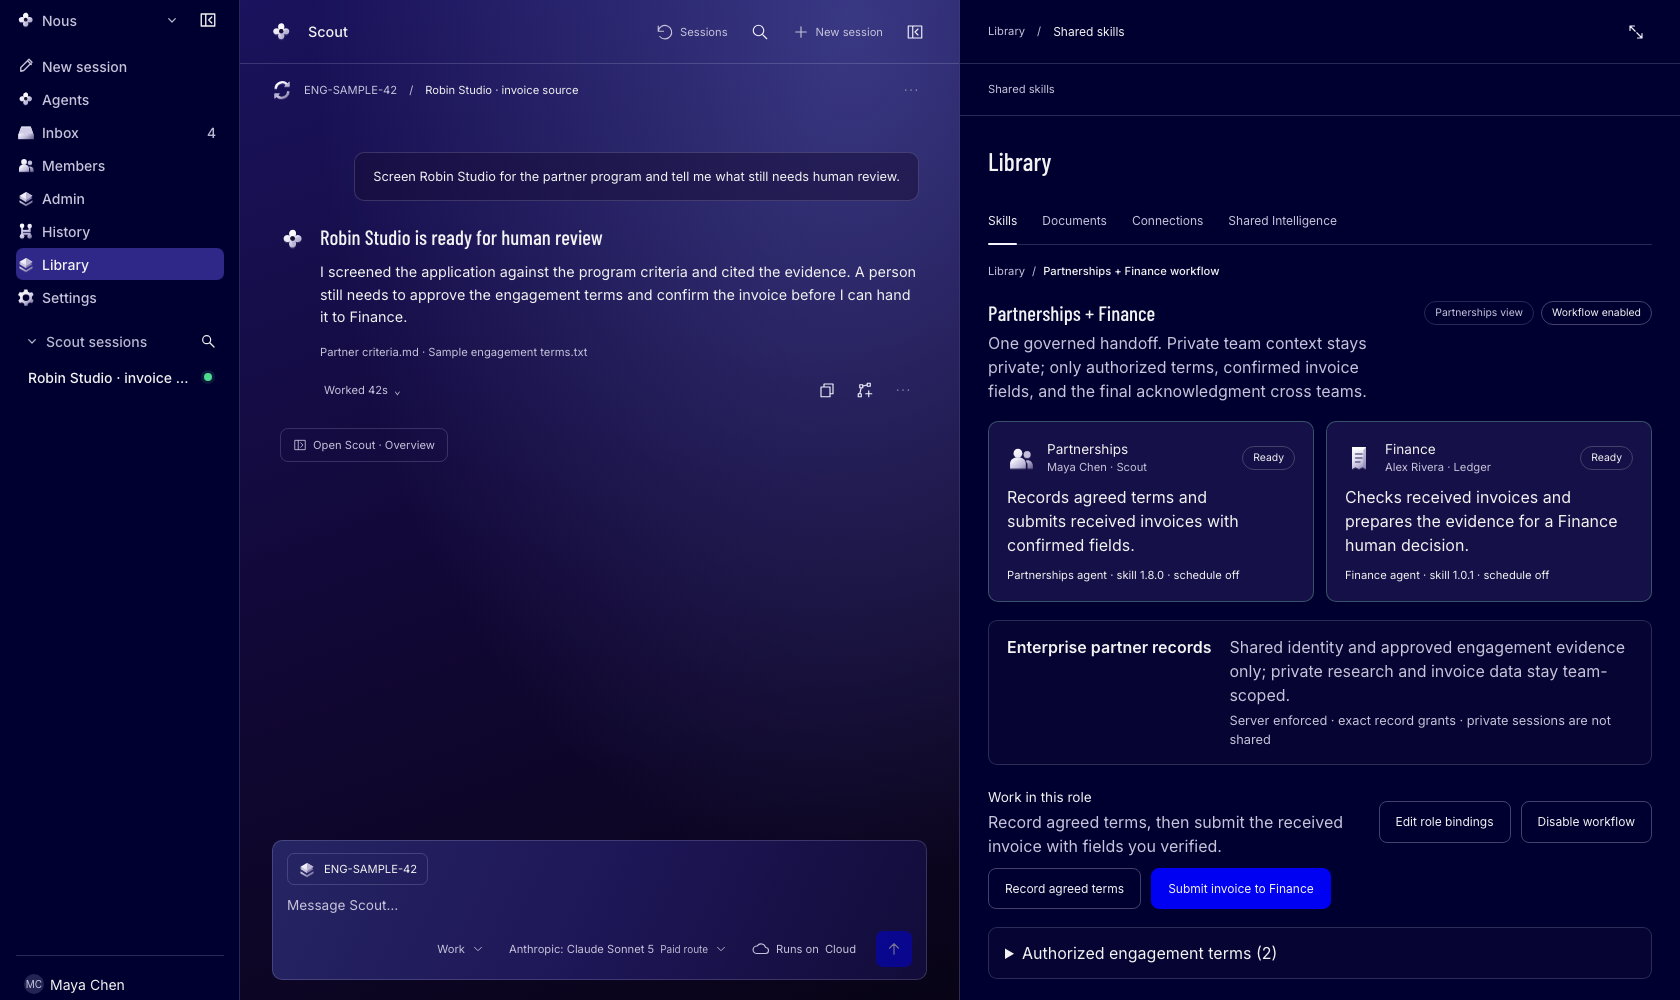
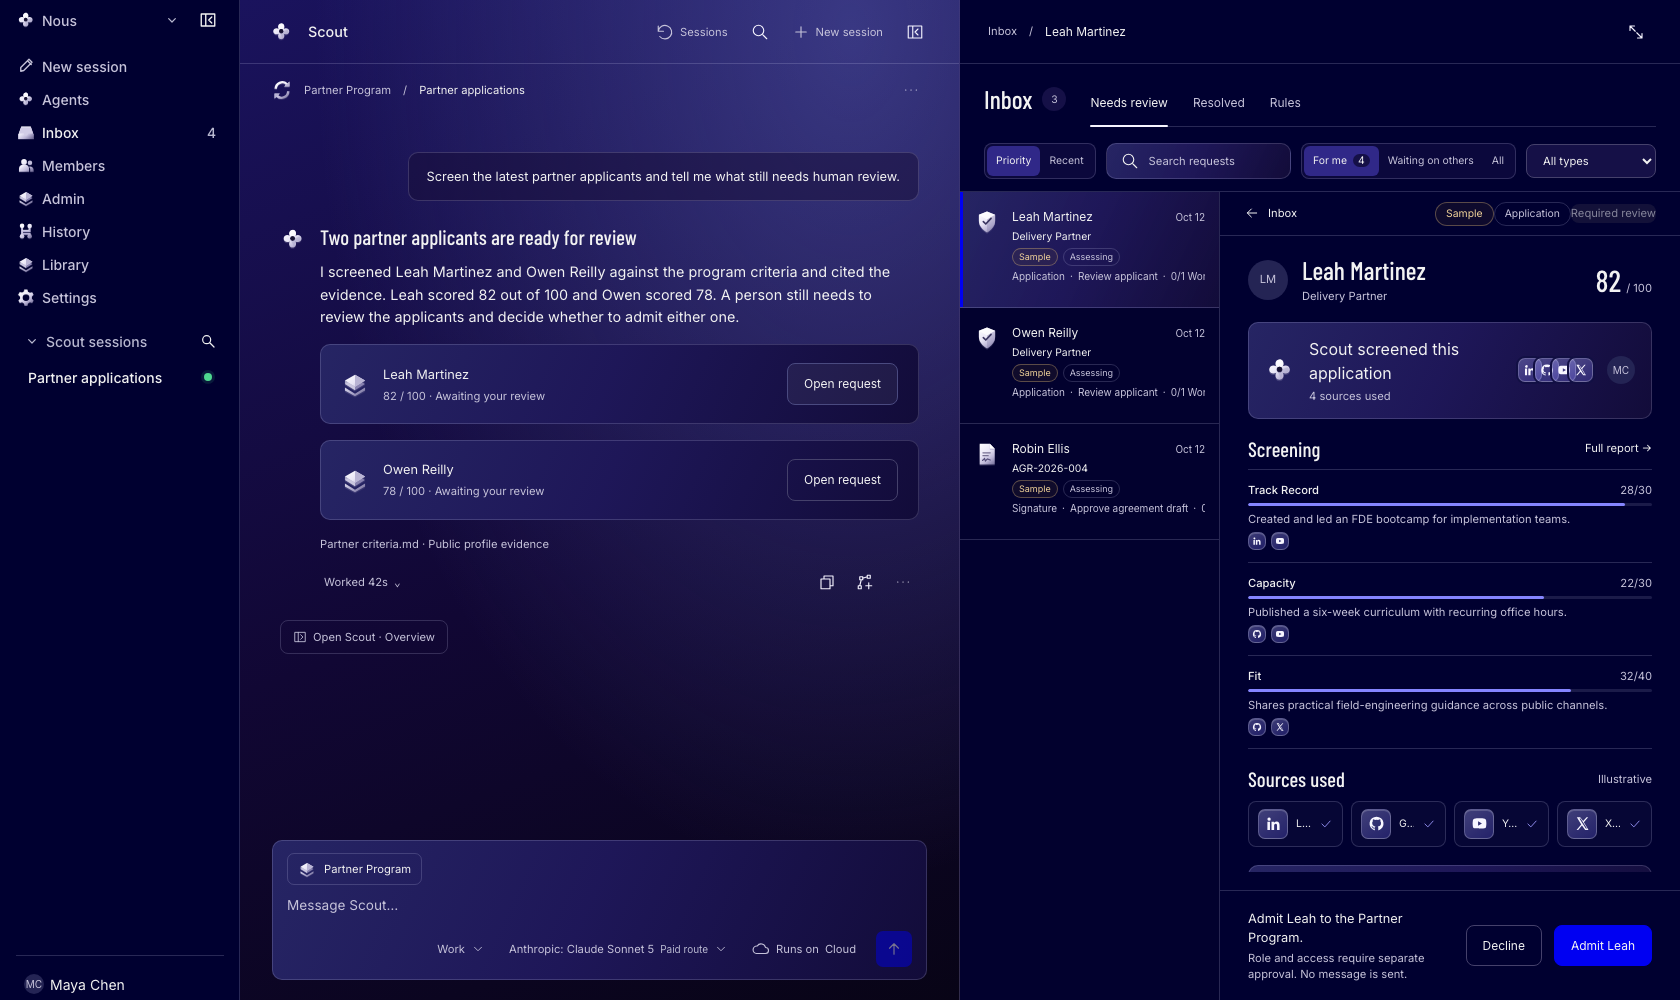
Show Inbox workflow in README screenshots

diff --git a/apps/client/e2e/readme-screenshots.spec.ts b/apps/client/e2e/readme-screenshots.spec.ts
@@ -7,40 +7,39 @@ test.use({ viewport: { width: 1680, height: 1000 } });
 const app = (page: import('@playwright/test').Page) => page.getByRole('region', { name: 'Application' });
 const asset = (name: string) => fileURLToPath(new URL(`../../../docs/assets/${name}`, import.meta.url));
 
-test('capture the two-role Partnerships and Finance workflow', async ({ page }) => {
+test('capture the two-role Partnerships and Finance workflow in the Inbox', async ({ page }) => {
   await page.emulateMedia({ reducedMotion: 'reduce' });
 
   await page.goto('/?partnerWorkflow=1&workflowRole=partnerships&seat=admin');
-  await page.getByRole('button', { name: 'Library', exact: true }).click();
+  await page.getByRole('button', { name: /^Inbox/ }).click();
   await expect(page.getByText('Scout sessions', { exact: true })).toBeVisible();
-  await expect(page.getByRole('button', { name: 'Robin Studio · invoice source' })).toBeVisible();
-  await expect(page.getByText('Robin Studio is ready for human review', { exact: true })).toBeVisible();
-  await expect(app(page).getByText('Maya Chen · Scout', { exact: true })).toBeVisible();
-  await expect(app(page).getByText('Alex Rivera · Ledger', { exact: true })).toBeVisible();
+  await expect(page.getByRole('button', { name: 'Partner applications' })).toBeVisible();
+  await expect(page.getByText('Two partner applicants are ready for review', { exact: true })).toBeVisible();
+  await page.locator('.chat-card').filter({ hasText: 'Leah Martinez' }).getByRole('button', { name: 'Open request' }).click();
+  await expect(app(page).getByRole('heading', { name: 'Inbox', exact: true })).toBeVisible();
+  await expect(app(page).getByText('Leah Martinez', { exact: true }).first()).toBeVisible();
+  await expect(app(page).getByLabel('82 out of 100')).toBeVisible();
+  await expect(app(page).getByRole('heading', { name: 'Library', exact: true })).toHaveCount(0);
   await page.screenshot({ path: asset('readme-partnerships.png'), animations: 'disabled' });
 
   await page.goto('/?partnerWorkflow=1&workflowRole=finance&seat=member');
-  await page.getByRole('button', { name: 'Library', exact: true }).click();
   await expect(page.getByText('Ledger sessions', { exact: true })).toBeVisible();
   await expect(page.getByRole('button', { name: 'Robin Studio · Finance review' })).toBeVisible();
   await expect(page.getByText('Ready for Alex’s decision', { exact: true })).toBeVisible();
-  const handoff = app(page).locator('.partner-handoff-card').filter({ hasText: 'INV-SAMPLE-014' });
-  await handoff.getByRole('button', { name: 'View checks and evidence' }).click();
-  await expect(handoff.getByText('Sample engagement terms.txt', { exact: true })).toBeVisible();
-  await page.screenshot({ path: asset('readme-finance-handoff.png'), animations: 'disabled' });
-
-  await handoff.getByRole('button', { name: 'Open Finance decision' }).click();
+  await page.locator('.chat-card').filter({ hasText: 'INV-SAMPLE-014' }).getByRole('button', { name: 'Open request' }).click();
+  await expect(app(page).getByRole('heading', { name: 'Inbox', exact: true })).toBeVisible();
   await expect(app(page).getByRole('heading', { name: 'Your decision' })).toBeVisible();
-  await expect(page.getByText('Ledger sessions', { exact: true })).toBeVisible();
+  await expect(app(page).getByText('Authorized workflow evidence (4 checks)', { exact: true })).toBeVisible();
+  await expect(app(page).getByRole('heading', { name: 'Library', exact: true })).toHaveCount(0);
   await page.screenshot({ path: asset('readme-finance-decision.png'), animations: 'disabled' });
 
   await app(page).getByRole('button', { name: 'Approve invoice draft', exact: true }).click();
   await expect(app(page).getByRole('heading', { name: 'Saved in Library' })).toBeVisible();
-  await page.getByRole('button', { name: 'Library', exact: true }).click();
-  const decided = app(page).locator('.partner-handoff-card').filter({ hasText: 'INV-SAMPLE-014' });
-  await expect(decided.getByText('Finance saved the invoice draft', { exact: true })).toBeVisible();
-  await expect(page.getByText('Ledger sessions', { exact: true })).toBeVisible();
-  await decided.scrollIntoViewIfNeeded();
-  await page.evaluate(() => window.scrollTo(0, 0));
+  await app(page).getByRole('button', { name: 'Back to Inbox' }).click();
+  await app(page).getByRole('tab', { name: 'Resolved', exact: true }).click();
+  await expect(app(page).getByRole('tab', { name: 'Resolved', exact: true })).toHaveAttribute('aria-selected', 'true');
+  const resolvedInvoice = app(page).locator('.inbox-item').filter({ hasText: 'Robin Studio' });
+  await expect(resolvedInvoice.getByText('Invoice draft created · Not sent · No money moved', { exact: true })).toBeVisible();
+  await expect(app(page).getByRole('heading', { name: 'Library', exact: true })).toHaveCount(0);
   await page.screenshot({ path: asset('readme-finance-receipt.png'), animations: 'disabled' });
 });

diff --git a/apps/client/src/model/mock.ts b/apps/client/src/model/mock.ts
@@ -475,7 +475,7 @@ export function createMockBackend(options: MockOptions = {}) {
   const sessions: MockSession[] = empty
     ? [{ id: SESSION_A, agent_id: AGENT, title: 'New session', mode: 'ask', model_id: DEFAULT_MODEL_ID, effort: DEFAULT_EFFORT, runtime: 'cloud', pinned: false, archived: false, focus_ref: null, status: 'Empty', last_activity_at: iso(0), share: null, context: null, version: 1 }]
     : [
-        { id: SESSION_A, agent_id: AGENT, title: options.partnerWorkflow ? 'Robin Studio · invoice source' : 'Partner applications', mode: 'work', model_id: DEFAULT_MODEL_ID, effort: DEFAULT_EFFORT, runtime: 'cloud', pinned: options.partnerWorkflow ? false : true, archived: false, focus_ref: { section: 'agents', view: 'overview' }, status: options.partnerWorkflow ? 'Invoice received' : 'Needs review', last_activity_at: iso(0), share: null, context: { label: options.partnerWorkflow ? 'ENG-SAMPLE-42' : 'Partner Program', ref: { section: 'agents', view: 'overview' } }, version: 1 },
+        { id: SESSION_A, agent_id: AGENT, title: 'Partner applications', mode: 'work', model_id: DEFAULT_MODEL_ID, effort: DEFAULT_EFFORT, runtime: 'cloud', pinned: options.partnerWorkflow ? false : true, archived: false, focus_ref: { section: 'agents', view: 'overview' }, status: 'Needs review', last_activity_at: iso(0), share: null, context: { label: 'Partner Program', ref: { section: 'agents', view: 'overview' } }, version: 1 },
         { id: SESSION_B, agent_id: options.partnerWorkflow ? FINANCE_AGENT : AGENT, title: options.partnerWorkflow ? 'Robin Studio · Finance review' : 'Provider documents', mode: 'plan', model_id: DEFAULT_MODEL_ID, effort: DEFAULT_EFFORT, runtime: 'cloud', pinned: false, archived: false, focus_ref: null, status: options.partnerWorkflow ? 'Awaiting Finance review' : 'Drafts ready', last_activity_at: options.partnerWorkflow ? iso(1) : iso(-10), share: null, context: null, version: 1 },
       ];
   if (options.partnerWorkflow) {
@@ -488,12 +488,16 @@ export function createMockBackend(options: MockOptions = {}) {
       ? []
       : options.partnerWorkflow
         ? [
-            { id: mockUuid(300), session_id: SESSION_A, seq: 1, role: 'user', kind: null, text: 'Screen Robin Studio for the partner program and tell me what still needs human review.', blocks: [], status: 'complete', run_id: null, at: iso(-2) },
+            { id: mockUuid(300), session_id: SESSION_A, seq: 1, role: 'user', kind: null, text: 'Screen the latest partner applicants and tell me what still needs human review.', blocks: [], status: 'complete', run_id: null, at: iso(-2) },
             {
               id: mockUuid(301), session_id: SESSION_A, seq: 2, role: 'iris', kind: null,
-              heading: 'Robin Studio is ready for human review',
-              text: 'I screened the application against the program criteria and cited the evidence. A person still needs to approve the engagement terms and confirm the invoice before I can hand it to Finance.',
-              blocks: [{ type: 'sources', title: 'Sources checked', subtitle: 'Partner criteria.md · Sample engagement terms.txt' }],
+              heading: 'Two partner applicants are ready for review',
+              text: 'I screened Leah Martinez and Owen Reilly against the program criteria and cited the evidence. Leah scored 82 out of 100 and Owen scored 78. A person still needs to review the applicants and decide whether to admit either one.',
+              blocks: [
+                { type: 'card', title: 'Leah Martinez', subtitle: '82 / 100 · Awaiting your review', action: { label: 'Open request', command: { type: 'open_request', id: REQ_LEAH } } },
+                { type: 'card', title: 'Owen Reilly', subtitle: '78 / 100 · Awaiting your review', action: { label: 'Open request', command: { type: 'open_request', id: REQ_OWEN } } },
+                { type: 'sources', title: 'Sources checked', subtitle: 'Partner criteria.md · Public profile evidence' },
+              ],
               status: 'complete', run_id: mockUuid(613), worked_ms: 42_000,
               steps: ['Read the application', 'Checked the program criteria', 'Prepared the evidence summary'], at: iso(-1),
             },

diff --git a/apps/client/src/app/views/Inbox.tsx b/apps/client/src/app/views/Inbox.tsx
@@ -23,7 +23,7 @@ import { Ack, Avatar, Button, Dialog, EmptyState, Panel, Skeleton, Tabs, fmtMone
 import { EMPTY } from '../../model/constants.js';
 import './legacy-documents.css';
 import { requestActionLabel } from '../approval-copy.js';
-import { requestStatusLabel } from '../selectors.js';
+import { agentName, requestStatusLabel } from '../selectors.js';
 import { useWorkspaceLists } from './lists.js';
 import { useFreshIds } from '../fresh.js';
 import { takeInboxHighlight } from '../deep-link.js';
@@ -567,6 +567,7 @@ function DecisionFooter({ request, title, detail, approveLabel, declineLabel }: 
 
 function ApplicationView({ request }: { request: RequestEntity }) {
   const state = useAppState();
+  const screeningAgent = agentName(state);
   const payload = record(request.payload);
   const applicant = record(payload.applicant);
   const name = text(applicant.name) ?? request.subject ?? request.label;
@@ -636,11 +637,11 @@ function ApplicationView({ request }: { request: RequestEntity }) {
             <div className="panel application-summary">
               <Glass name="iris" size={30} />
               <div className="col grow" style={{ gap: 3 }}>
-                <span>Iris screened this application</span>
+                <span>{screeningAgent} screened this application</span>
                 <span className="meta">{sources.length > 0 ? `${sources.length} sources used` : 'No linked sources'}</span>
               </div>
               {sources.length > 0 && (
-                <span className="source-stack" aria-label={`${sources.length} sources used by Iris`}>
+                <span className="source-stack" aria-label={`${sources.length} sources used by ${screeningAgent}`}>
                   {sources.slice(0, 4).map((item) => <SourceMark key={item.id} source={item} size={24} />)}
                 </span>
               )}

diff --git a/apps/client/e2e/partner-workflow.spec.ts b/apps/client/e2e/partner-workflow.spec.ts
@@ -12,7 +12,7 @@ test('Finance reviews authorized evidence, records the decision, and returns a s
   await expect(pane.getByText('Maya Chen · Scout', { exact: true })).toBeVisible();
   await expect(pane.getByText('Alex Rivera · Ledger', { exact: true })).toBeVisible();
   await expect(pane.getByText('Ready', { exact: true })).toHaveCount(2);
-  await expect(page.getByRole('button', { name: 'Robin Studio · invoice source' })).toHaveCount(0);
+  await expect(page.getByRole('button', { name: 'Partner applications' })).toHaveCount(0);
   await expect(page.getByRole('button', { name: 'Robin Studio · Finance review' })).toBeVisible();
   await expect(page.getByText('Ledger sessions', { exact: true })).toBeVisible();
   await expect(page.getByText('Scout sessions', { exact: true })).toHaveCount(0);

diff --git a/README.md b/README.md
@@ -74,36 +74,33 @@ agreement.
 All screenshots use sample fixture data and simulated execution. The fixtures
 do not call a model.
 
-### 1. Partnerships works in its own chat
+### 1. Partnerships screens applicants in the Inbox
 
 The Partnerships Manager works with a dedicated agent named Scout in this
-example. The left rail shows Scout's sessions. The role cards on the right show
-the separate Partnerships and Finance assignments.
+example. Scout screens the latest applicants and prepares the evidence. The
+left rail keeps Scout's sessions visible while a person reviews the applicant
+in the Inbox.
 
-![Scout chat with the Partnerships session list, screening result, and separate role assignments](docs/assets/readme-partnerships.png)
+![Scout chat and Partnerships session list beside Leah Martinez's Inbox review](docs/assets/readme-partnerships.png)
 
-### 2. Finance receives a scoped handoff
+### 2. Finance reviews the scoped handoff in the Inbox
 
 The Finance agent, Ledger, receives a message from Scout in a separate session.
 Ledger checks only the authorized terms and confirmed invoice source that the
-server included in the handoff.
-
-![Ledger chat with its Finance session list and the checked invoice handoff](docs/assets/readme-finance-handoff.png)
-
-### 3. The Finance employee makes the decision
-
-The Inbox names the decision, shows the evidence, and identifies the authorized
-reviewer. The agent prepares this request but cannot decide it.
+server included in the handoff. The Inbox names the decision, shows the
+evidence, and identifies the authorized reviewer. Ledger prepares the request
+but cannot decide it.
 
 ![Finance chat and session list beside the invoice decision for Alex Rivera](docs/assets/readme-finance-decision.png)
 
-### 4. Hermes records a limited receipt
+### 3. The Inbox records the result
 
-After Alex approves the invoice draft, Hermes records who decided and what the
-app saved. The receipt confirms that the app did not send an email or start a
-payment. It also keeps Finance notes and private conversation inside Finance.
+After Alex approves the invoice draft, the request moves to the Inbox's
+Resolved view. The result states that the app created a draft without sending
+an email or moving money. Ledger's session list and Finance conversation remain
+visible beside it.
 
-![Finance session list and recorded invoice draft receipt](docs/assets/readme-finance-receipt.png)
+![Ledger chat and Finance session list beside the resolved invoice in the Inbox](docs/assets/readme-finance-receipt.png)
 
 ## How team setup works
 
